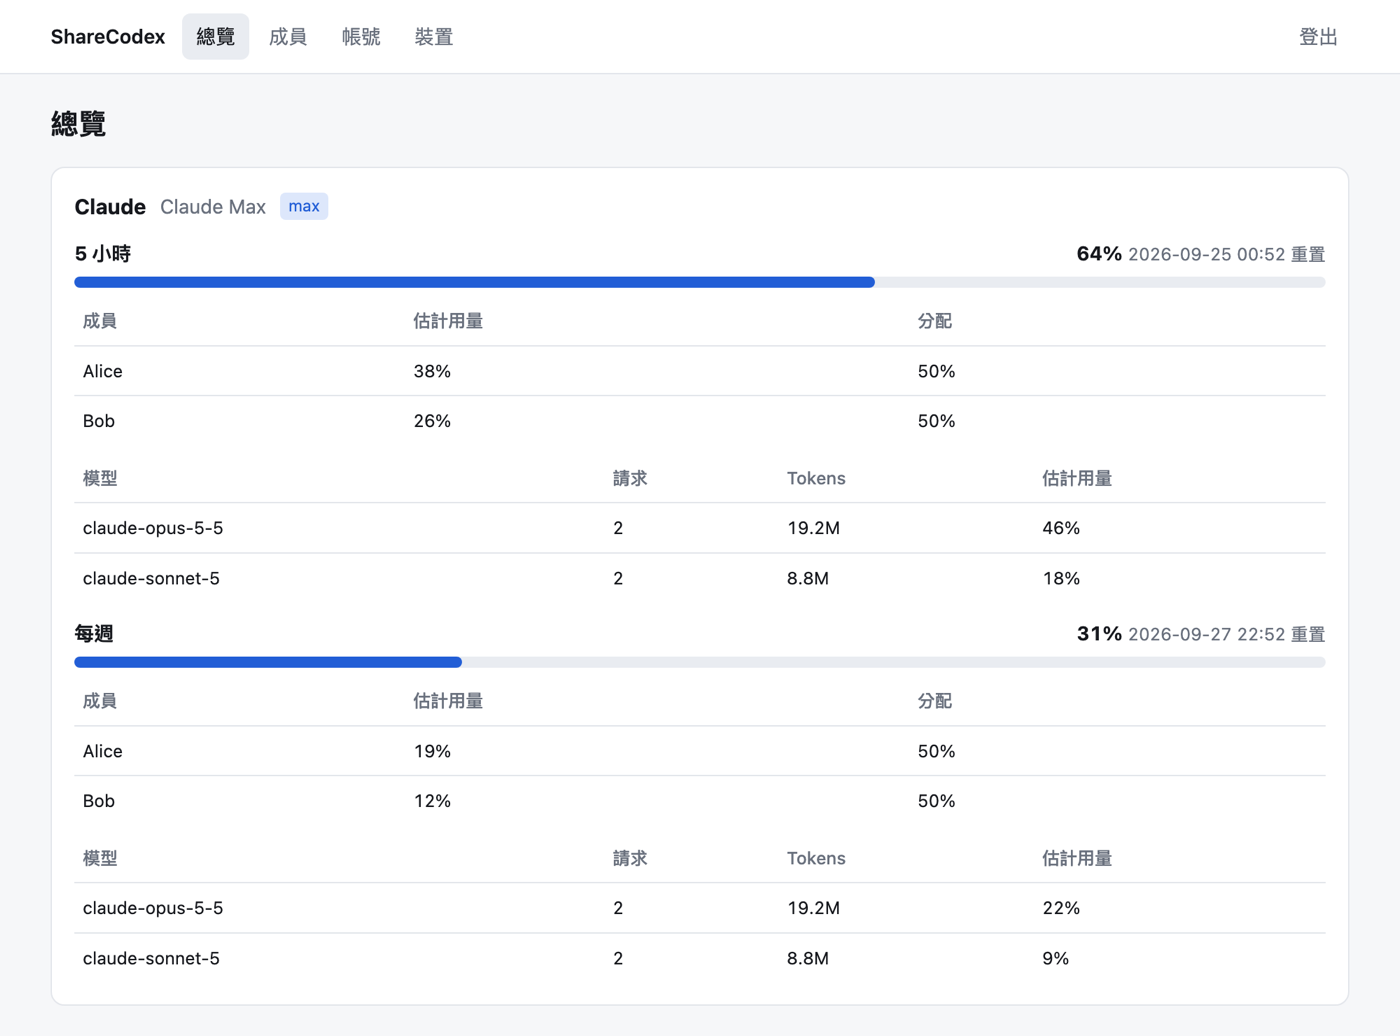
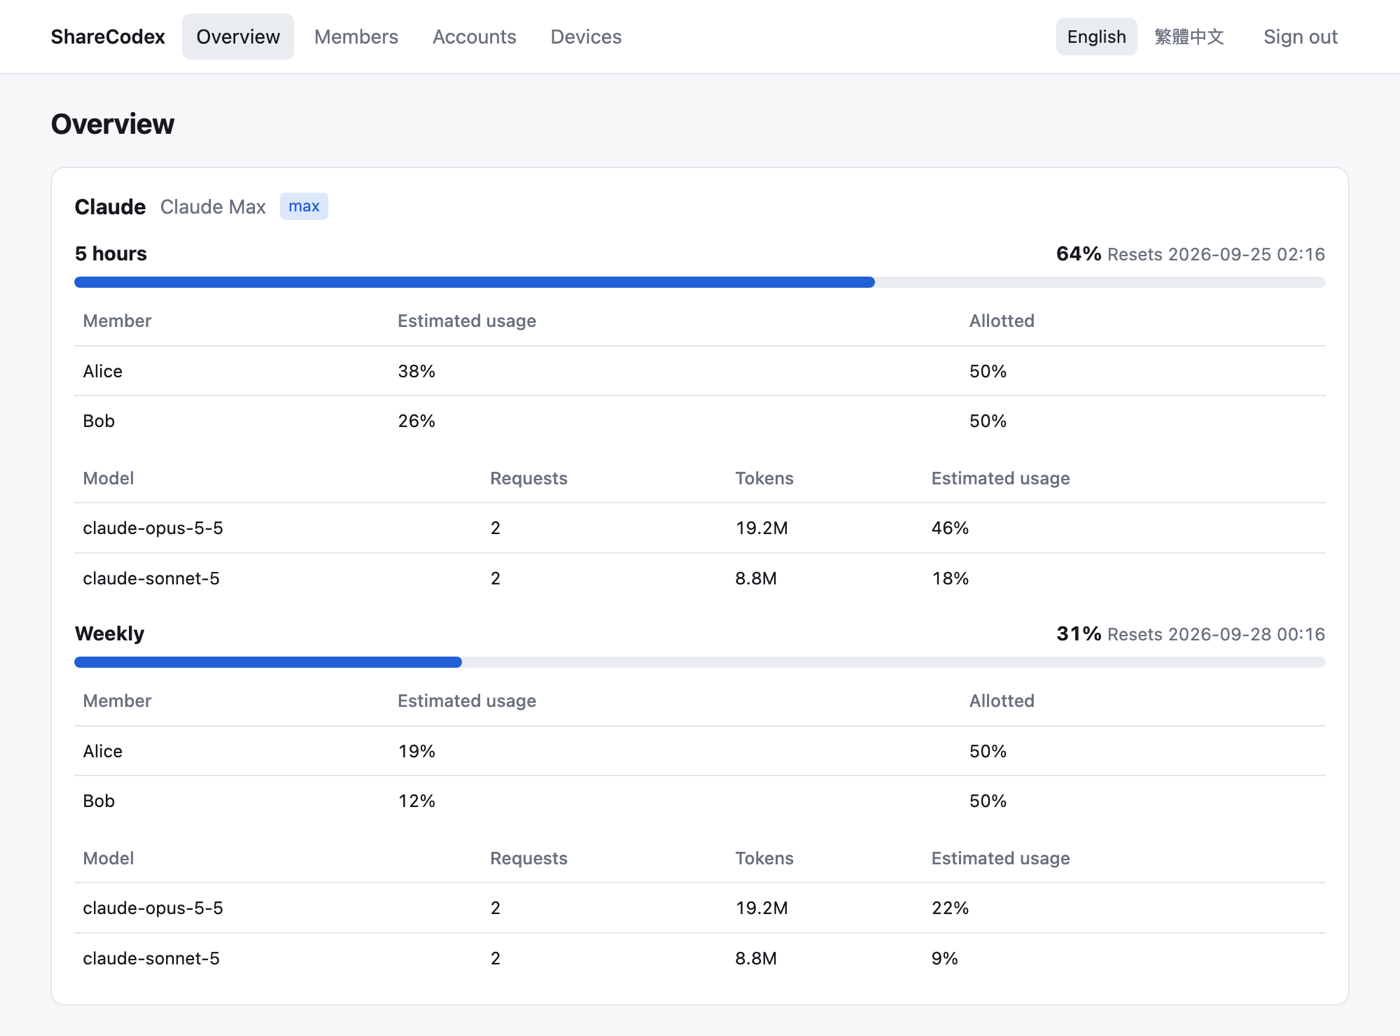
docs: show the English UI and the dark admin console in screenshots

diff --git a/README.md b/README.md
@@ -48,7 +48,7 @@ ChatGPT web chat is not tracked.
 
 <p align="center">
   <img src="docs/images/admin-overview.png" width="49%" alt="Admin console overview">
-  <img src="docs/images/admin-accounts.png" width="49%" alt="Admin console accounts">
+  <img src="docs/images/admin-accounts.png" width="49%" alt="Admin console accounts, dark">
 </p>
 
 ## What it shows
